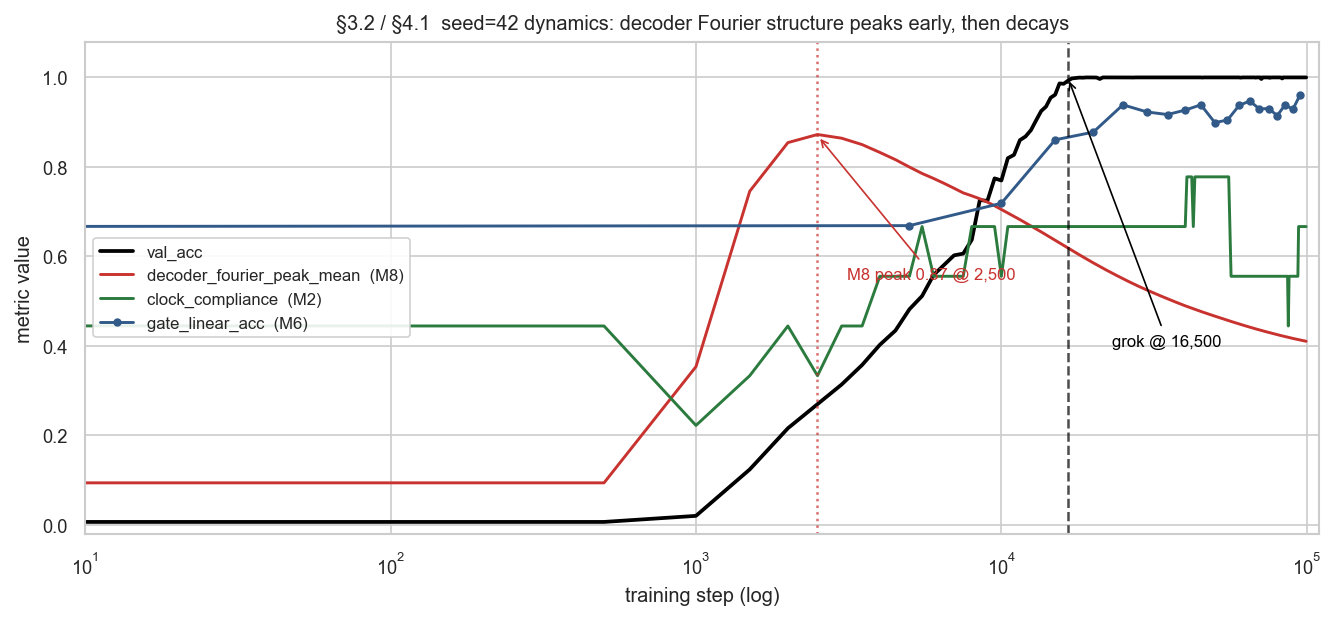
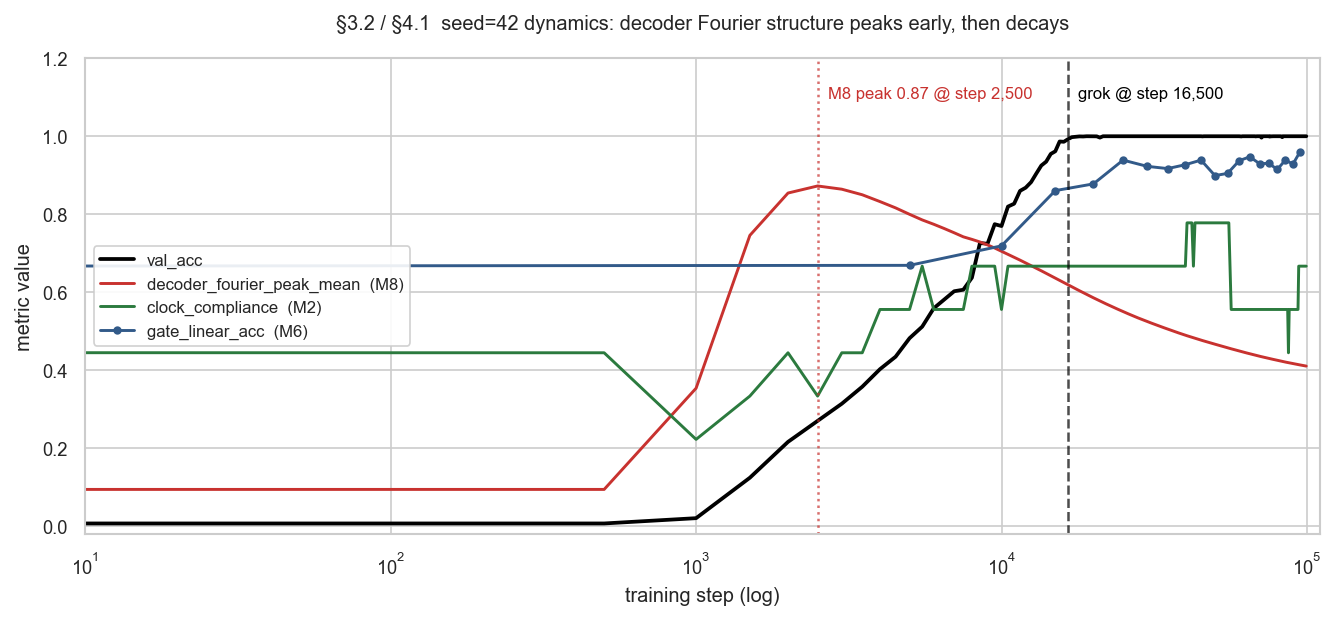
Reposition F3 annotations and rename SIFP-16 → SFP-16 in paper prose
Moves M8-peak and grok labels above the plot area (y=1.09) in
fig_s32_decoder_fourier_dynamics.png so they no longer overlap the
title or the decoder_fourier_peak_mean trace. Renames SIFP-16 to
SFP-16 in the paper's §3.7 prose; code-level identifiers like the
`sifp16_acc` CSV column stay as-is.

diff --git a/scripts/paper_v5_figures.py b/scripts/paper_v5_figures.py
@@ -120,19 +120,18 @@ def fig_decoder_fourier_dynamics() -> None:
     peak_step = 2_500
     ax.axvline(peak_step, color=C_PAN, ls=":", lw=1.2, alpha=0.7)
     ax.axvline(grok_step, color="black", ls="--", lw=1.2, alpha=0.7)
-    ax.annotate("M8 peak 0.87 @ 2,500", xy=(peak_step, 0.87),
-                xytext=(peak_step * 1.25, 0.55), fontsize=8, color=C_PAN,
-                arrowprops=dict(arrowstyle="->", color=C_PAN, lw=0.8))
-    ax.annotate("grok @ 16,500", xy=(grok_step, 1.0),
-                xytext=(grok_step * 1.4, 0.4), fontsize=8, color="black",
-                arrowprops=dict(arrowstyle="->", color="black", lw=0.8))
+    ax.text(peak_step * 1.08, 1.09, "M8 peak 0.87 @ step 2,500",
+            fontsize=8, color=C_PAN, va="bottom", ha="left")
+    ax.text(grok_step * 1.08, 1.09, "grok @ step 16,500",
+            fontsize=8, color="black", va="bottom", ha="left")
 
     ax.set_xscale("log")
     ax.set_xlabel("training step (log)")
     ax.set_ylabel("metric value")
-    ax.set_ylim(-0.02, 1.08)
+    ax.set_ylim(-0.02, 1.2)
     ax.set_xlim(10, 1.1e5)
-    ax.set_title("§3.2 / §4.1  seed=42 dynamics: decoder Fourier structure peaks early, then decays")
+    ax.set_title("§3.2 / §4.1  seed=42 dynamics: decoder Fourier structure peaks early, then decays",
+                 pad=14)
     ax.legend(loc="center left", framealpha=0.9, fontsize=8)
     fig.tight_layout()
     fig.savefig(OUT_DIR / "fig_s32_decoder_fourier_dynamics.png", bbox_inches="tight")

diff --git a/docs/drafts/05_pan_paper_v5.md b/docs/drafts/05_pan_paper_v5.md
@@ -436,14 +436,14 @@ at step 95K, still rising). Whatever the trained decoder is doing
 beyond a Fourier projection (§4.1), it is not exploiting all the
 discriminative structure already present in the gate.
 
-### 3.7 SIFP-16 phase quantization at inference
+### 3.7 SFP-16 phase quantization at inference
 
 To evaluate whether PAN's circuit tolerates the phase precision of
 SPF-32 hardware (16-bit phase field, quantization error 2π/65536
 ≈ 9.6 × 10⁻⁵ rad), we quantize every phase output to 16-bit
 precision at inference and re-evaluate:
 
-| Seed | fp32 val_acc | SIFP-16 val_acc | Δ      |
+| Seed | fp32 val_acc | SFP-16 val_acc | Δ      |
 |------|--------------|------------------|--------|
 | 42   | 99.23%       | 99.23%           | 0.000  |
 | 123  | 99.14%       | 99.14%           | 0.000  |
@@ -452,7 +452,7 @@ precision at inference and re-evaluate:
 **16-bit phase quantization is effectively free.** The seed-456 run
 had not fully completed post-grok cleanup (val_acc 94.4% at
 termination); even this undertrained model loses only 0.3% accuracy
-at SIFP-16. Fully grokked runs show zero quantization loss to four
+at SFP-16. Fully grokked runs show zero quantization loss to four
 decimal places, and the seed=42 deep dive in §3.2 confirms this
 holds throughout the post-grok regime: by step 95K, `quant_delta`
 = 0.0000.
